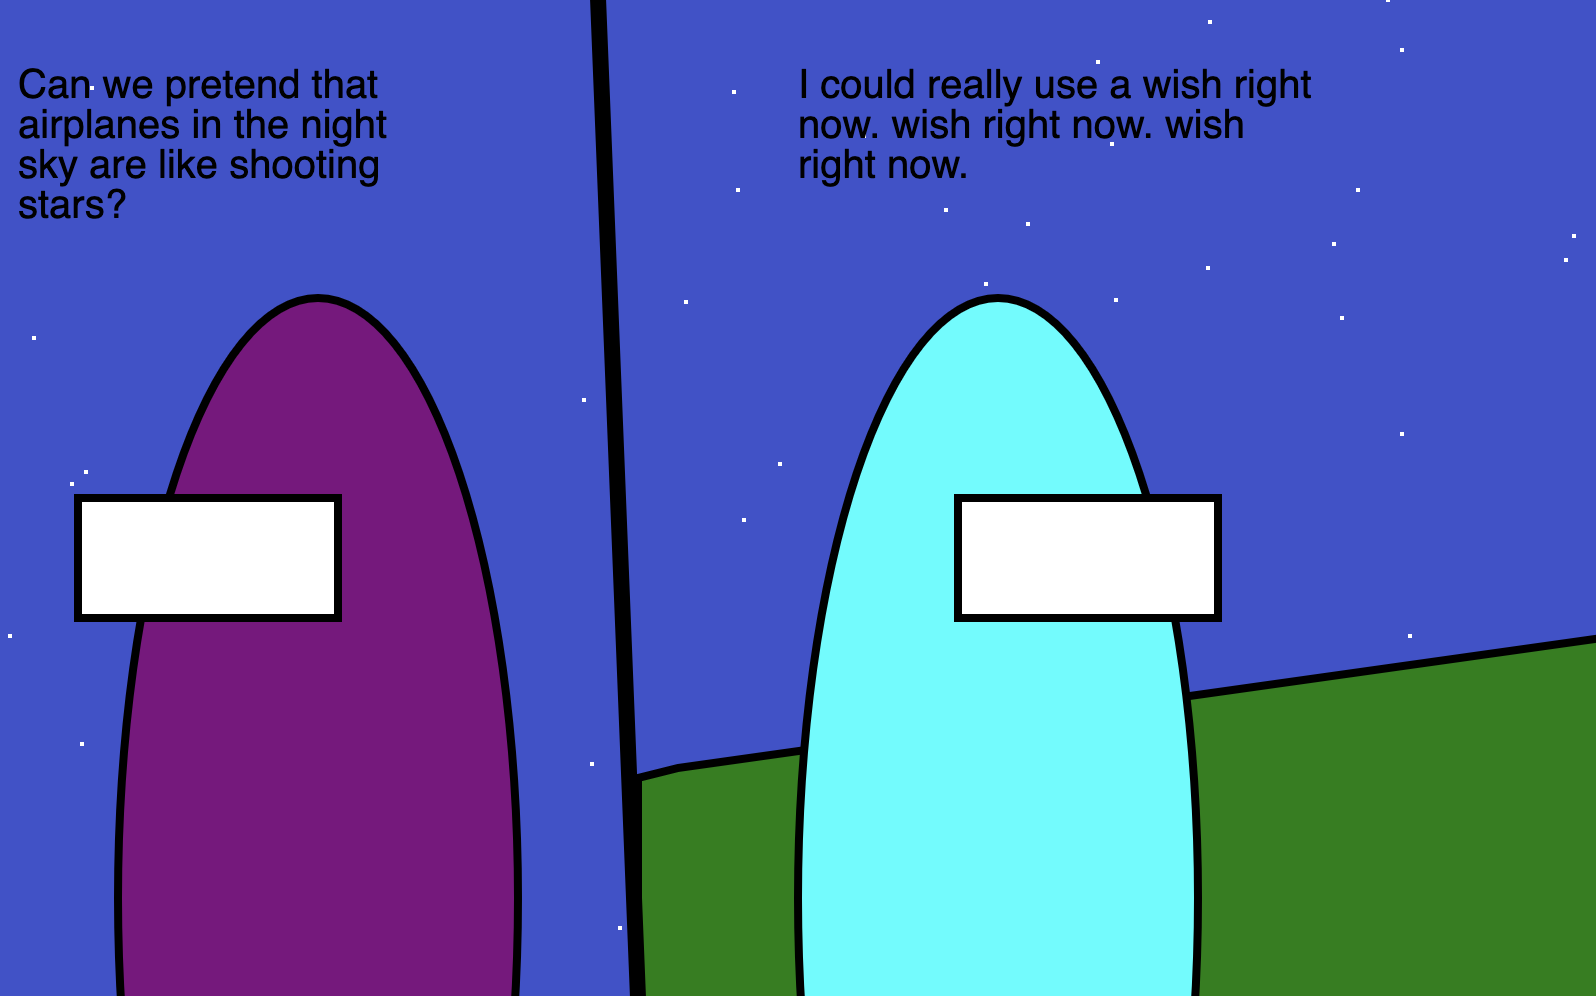
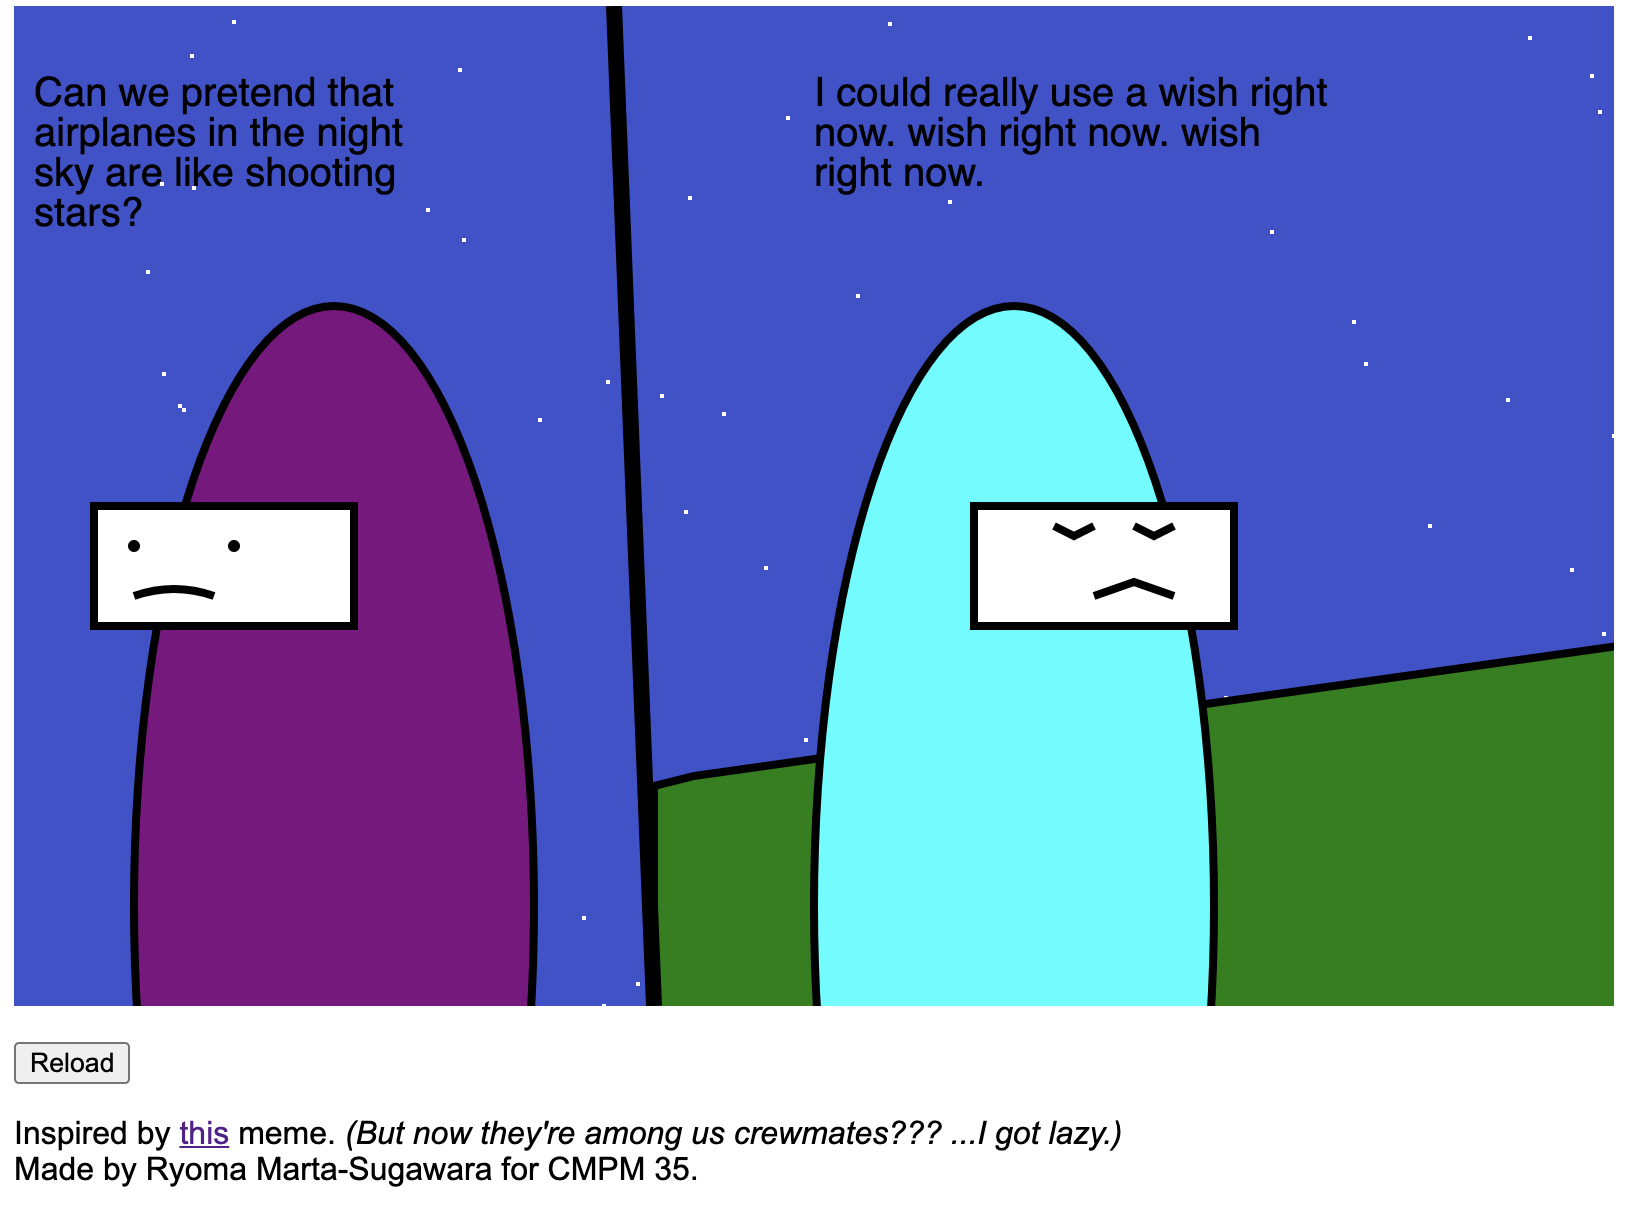
Changed output of shapes.

diff --git a/Assignments/11-10-2020/shapes.js b/Assignments/11-10-2020/shapes.js
@@ -129,4 +129,41 @@ function init() {
     .attr("x2", 320)
     .attr("y2", 500);
 
+  const path2 = svg.append("path")
+    .attr("fill", "none")
+    .attr("stroke", "black")
+    .attr("stroke-width", "4")
+    .attr("d", "M 60 295 Q 80 288 100 295");
+
+  const polyline2 = svg.append("polyline")
+    .attr("fill", "none")
+    .attr("stroke", "black")
+    .attr("stroke-width", "4")
+    .attr("points", "540 295  560 288  580 295");
+
+  const polyline3 = svg.append("polyline")
+    .attr("fill", "none")
+    .attr("stroke", "black")
+    .attr("stroke-width", "4")
+    .attr("points", "520 260  530 265  540 260")
+
+  const polyline4 = svg.append("polyline")
+    .attr("fill", "none")
+    .attr("stroke", "black")
+    .attr("stroke-width", "4")
+    .attr("points", "560 260  570 265  580 260")
+
+  const eye = svg.append("circle")
+    .attr("fill", "black")
+    .attr("cx", 60)
+    .attr("cy", 270)
+    .attr("r", 3);
+   
+  const eye2 = svg.append("circle")
+    .attr("fill", "black")
+    .attr("cx", 110)
+    .attr("cy", 270)
+    .attr("r", 3);
+
+
 }

diff --git a/Assignments/11-10-2020/shapes.html b/Assignments/11-10-2020/shapes.html
@@ -1,7 +1,7 @@
 <html>
 
 <head>
-
+  <title>🧠 Welcome to My Twisted Mind 🧠</title>
   <script src="https://d3js.org/d3.v6.min.js"></script>
   <script src="./shapes.js"></script>
 
